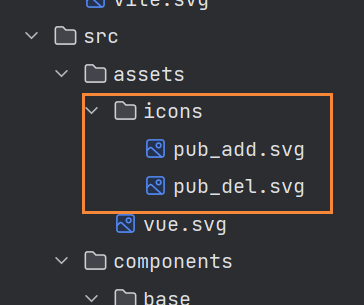
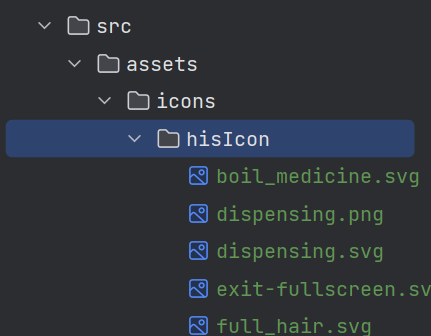
修改svg组件

diff --git a/docs/vue/basicComponent/svg.md b/docs/vue/basicComponent/svg.md
@@ -5,7 +5,7 @@ sidebarDepth: 2
 
 # svg组件
 
-在vite里通过vite-plugin-svg-icons动态使用svg图片
+在vite里通过[vite-plugin-svg-icons](https://github.com/vbenjs/vite-plugin-svg-icons)动态使用svg图片
 
 ## 步骤
 
@@ -42,10 +42,10 @@ export default defineConfig({
   plugins: [
     vue(),
     createSvgIconsPlugin({
-      // 指定要缓存的文件夹
+      // 指定要查找的文件夹
       iconDirs: [resolve(process.cwd(), 'src/assets/icons')],
       // 指定symbolId
-      symbolId: 'icon-[name]'
+      symbolId: 'icon-[dir]-[name]'
     })
   ]
 })
@@ -61,7 +61,7 @@ export default defineConfig({
     aria-hidden="true"
     :style="{ width: size + 'px', height: size + 'px' }"
   >
-    <use :href="svgName" />
+    <use :href="svgName" :fill="color"/>
   </svg>
 </template>
 
@@ -69,6 +69,15 @@ export default defineConfig({
   import { computed } from 'vue'
   
   const props = defineProps({
+    prefix: {
+      type: String,
+      default: 'icon'
+    },
+    // 文件夹
+    folder: {
+      type: String,
+      default: ''
+    },
     // svg尺寸
     size: {
       type: String,
@@ -83,6 +92,10 @@ export default defineConfig({
     iconName: {
       type: String,
       required: true
+    },
+    color: {
+      type: String,
+      default: '#333'
     }
   })
   
@@ -90,14 +103,17 @@ export default defineConfig({
     return props.iconClass ? 'svg-icon ' + props.iconClass : 'svg-icon'
   })
   
-  const svgName = computed(() => `#icon-${props.iconName}`)
+  const svgName = computed(() => {
+    if (props.folder) {
+      return `#${props.prefix}-${props.folder}-${props.iconName}`
+    } else {
+      return `#${props.prefix}-${props.iconName}`
+    }
+  })
 </script>
 
-<style scoped>
-  // 自定义每个svg图片的样式
-  .pub_add_class{
-    fill: aqua;
-  }
+<style lang="scss" scoped>
+
 </style>
 
 ```
@@ -110,8 +126,9 @@ export default defineConfig({
     <his-svg-icon
       :icon-class="iconClass"
       :icon-name="iconName"
+      folder="hisIcon"
       size="18"
-      color="#fff"
+      color="red"
     ></his-svg-icon>
   </div>
 </template>
